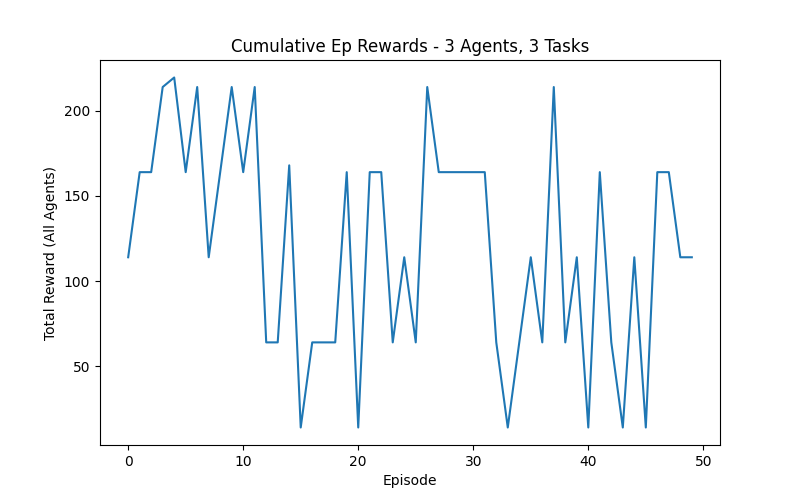
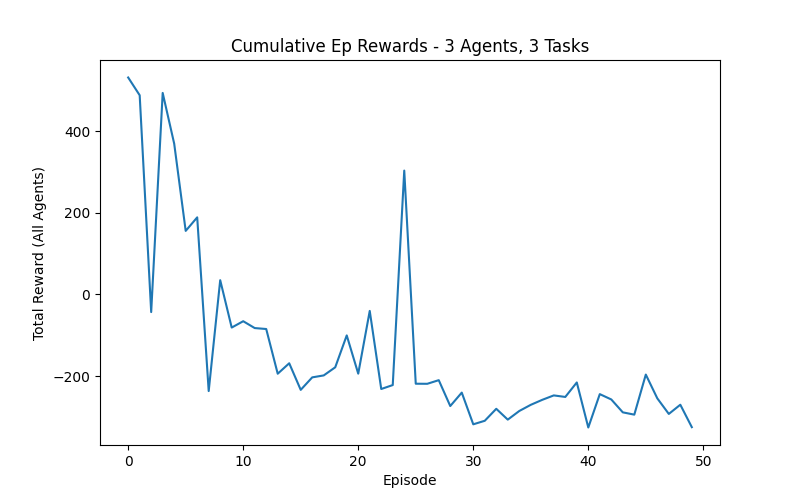
test runs

diff --git a/main.py b/main.py
@@ -19,7 +19,7 @@ def plot_rewards(cumulative_rewards, per_agent_rewards, num_agents, num_tasks):
     plt.xlabel('Episode')
     plt.ylabel('Total Reward (All Agents)')
     plt.title(f'Cumulative Ep Rewards - {num_agents} Agents, {num_tasks} Tasks')
-    plt.savefig(f'learning_curves/cumulative_rewards_{num_agents}_agents_{num_tasks}_point5.png')
+    plt.savefig(f'learning_curves/cumulative_rewards_{num_agents}_agents_{num_tasks}_35episodes.png')
     plt.close()
 
     # agent_names = list(per_agent_rewards[0].keys())
@@ -41,7 +41,7 @@ def main():
     seeds = [42, 162, 120, 14, 45]
 
     # Initialize the environment (PickUpDropOffSimpleSpread)
-    base_env = PickUpDropOffSimpleSpread(seed=42, max_cycles=30, num_agents=3, num_tasks=3)  # Pass the number of tasks here (1 pickup/dropoff pair per agent)
+    base_env = PickUpDropOffSimpleSpread(seed=42, max_cycles=30, num_agents=2, num_tasks=7)  # Pass the number of tasks here (1 pickup/dropoff pair per agent)
     agent = base_env.agents[0]  # Just pick one agent
     obs_dim = base_env.observation_spaces(agent).shape[0]
     act_dim = base_env.action_spaces(agent).n
@@ -51,7 +51,7 @@ def main():
     mappo_agent = MAPPO(base_env, actor, critic)
 
     # Training parameters
-    num_episodes = 50
+    num_episodes = 35
     batch_size = 16
     
     # Training loop
@@ -123,18 +123,22 @@ def main():
                     'next_value': next_value,
                 })
 
+            for agent in base_env.agents:
+                episode_rewards[agent] += rewards[agent]  
+            
+
             obs = next_obs
             done_flags.update(terminations)
 
             # Update the model at specified intervals
             if len(rollouts) >= batch_size:
-                print('updating policy')
+                # print('updating policy')
                 # Update model using rollouts after we reach a full batch size
                 mappo_agent.update_mappo(rollouts, next_obs) 
                 rollouts = []
 
-        for agent in base_env.agents:
-            episode_rewards[agent] += rewards[agent]  
+        # for agent in base_env.agents:
+        #     episode_rewards[agent] += rewards[agent]  
 
         print(f"Episode {episode + 1}/{num_episodes}: Rewards = {episode_rewards}")
         # print(terminations)

diff --git a/PickUpDropOffSimpleSpread.py b/PickUpDropOffSimpleSpread.py
@@ -106,6 +106,8 @@ class PickUpDropOffSimpleSpread:
 
     def step_pickup_drop(self, actions):
         self.step_count += 1
+        # reset rewards at each step for an agent
+        self.agent_rewards_out = {agent: 0.0 for agent in self.agents}
 
         # Ensure some action is made, default - stay in current location
         for agent in self.agents:
